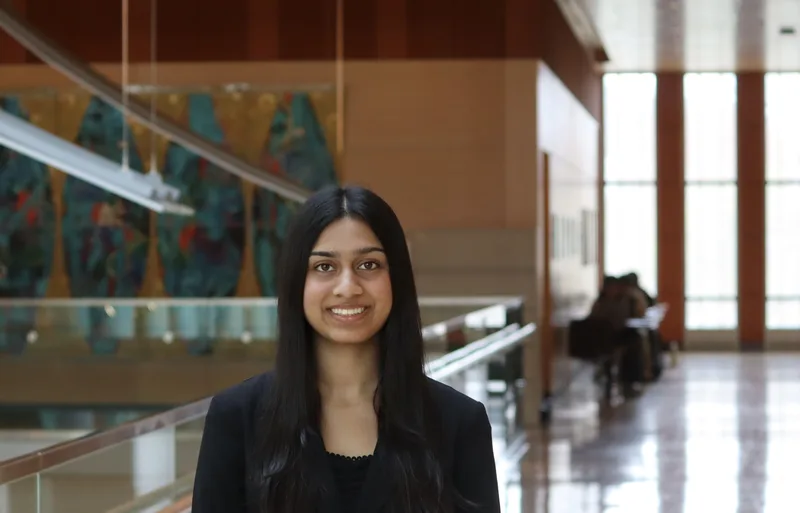
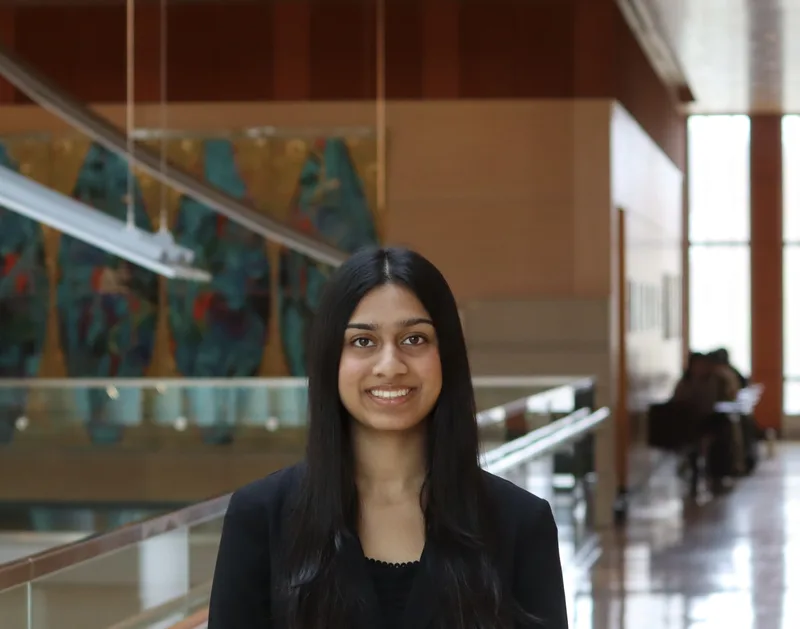
Re-crop eleven headshots to hand-picked framing
Replaces the calculated crops for eleven members with framing chosen
by hand in a local tool that pans and zooms a crop window over the
full-resolution original.

Sources came from two places. The six Theta photos used their original
6000px JPEGs, still untracked in static/media. The five older ones were
recovered from git at af17342^, before the resize pass reduced them to
800px, and staged in static/media/_sources.

Each crop is taken at the 280:220 ratio the member card renders, then
resized to 800px wide at quality 82. All eleven land at 800x629.

Michael Feneberg, Pranav Goyal and Ana Ryerson were left alone, having
looked correct already.

Also removes the focus fields added earlier. Every one held "50% 50%",
which is identical to the default, and the framing is now baked into
the files instead. The object-position support in createMemberCard and
showMemberModal stays, so the field can be reintroduced for any member
that needs panning later.

static/media/_sources is gitignored: recovered originals for
re-cropping, not site content.

Claude-Session: https://claude.ai/code/session_01HFF7eiNCE4Nis1LyBdvLFD

diff --git a/static/js/members.js b/static/js/members.js
@@ -278,8 +278,7 @@ const membersData = [
     year: "Senior",
     class: "epsilon",
     image: "/static/media/people/ManushriAnand.webp",
-    linkedin: "https://www.linkedin.com/in/manushrianand/",
-    focus: "50% 50%"
+    linkedin: "https://www.linkedin.com/in/manushrianand/"
   },
   {
     id: "drew-dame",
@@ -319,8 +318,7 @@ const membersData = [
     year: "Senior",
     class: "epsilon",
     image: "/static/media/people/MichaelFeneberg.webp",
-    linkedin: "https://www.linkedin.com/in/mfeneberg/",
-    focus: "50% 50%"
+    linkedin: "https://www.linkedin.com/in/mfeneberg/"
   },
   {
     id: "pranav-goyal",
@@ -330,8 +328,7 @@ const membersData = [
     year: "Senior",
     class: "epsilon",
     image: "/static/media/people/PranavGoyal.webp",
-    linkedin: "https://www.linkedin.com/in/pranav-goy4l/",
-    focus: "50% 50%"
+    linkedin: "https://www.linkedin.com/in/pranav-goy4l/"
   },
   // {
   //   id: "ellie-grehan",
@@ -382,8 +379,7 @@ const membersData = [
     year: "Senior",
     class: "epsilon",
     image: "/static/media/people/NathanLesny.webp",
-    linkedin: "https://www.linkedin.com/in/nathan-lesny/",
-    focus: "50% 50%"
+    linkedin: "https://www.linkedin.com/in/nathan-lesny/"
   },
   // {
   //   id: "menuel-rosso",
@@ -403,8 +399,7 @@ const membersData = [
     year: "Senior",
     class: "epsilon",
     image: "/static/media/people/AnaRyerson.webp",
-    linkedin: "https://www.linkedin.com/in/anaryerson/",
-    focus: "50% 50%"
+    linkedin: "https://www.linkedin.com/in/anaryerson/"
   },
   {
     id: "aditi-vishnubhatla",
@@ -455,8 +450,7 @@ const membersData = [
     year: "Junior",
     class: "zeta",
     image: "/static/media/people/SanjanaDatla.webp",
-    linkedin: "https://www.linkedin.com/in/sanjanadat/",
-    focus: "50% 50%"
+    linkedin: "https://www.linkedin.com/in/sanjanadat/"
   },
   {
     id: "vaelone-elankumaran",
@@ -466,8 +460,7 @@ const membersData = [
     year: "Senior",
     class: "zeta",
     image: "/static/media/people/VaeloneElankumaran.webp",
-    linkedin: "https://www.linkedin.com/in/vaelonee/",
-    focus: "50% 50%"
+    linkedin: "https://www.linkedin.com/in/vaelonee/"
   },
   {
     id: "aria-fifer",
@@ -477,8 +470,7 @@ const membersData = [
     year: "Senior",
     class: "zeta",
     image: "/static/media/people/AriaFifer.webp",
-    linkedin: "https://www.linkedin.com/in/aria-fifer-401629218/",
-    focus: "50% 50%"
+    linkedin: "https://www.linkedin.com/in/aria-fifer-401629218/"
   },
   {
     id: "nina-gernhardt",
@@ -784,8 +776,7 @@ const membersData = [
     year: "Sophomore",
     class: "theta",
     image: "/static/media/people/AvarySheldon.webp",
-    linkedin: "https://www.linkedin.com/in/avary-sheldon-2341503b0/",
-    focus: "50% 50%"
+    linkedin: "https://www.linkedin.com/in/avary-sheldon-2341503b0/"
   },
   {
     id: "brady-adams",
@@ -795,8 +786,7 @@ const membersData = [
     year: "Sophomore",
     class: "theta",
     image: "/static/media/people/BradyAdams.webp",
-    linkedin: "https://www.linkedin.com/in/brady-adams-umich/",
-    focus: "50% 50%"
+    linkedin: "https://www.linkedin.com/in/brady-adams-umich/"
   },
   {
     id: "brianna-everson",
@@ -846,8 +836,7 @@ const membersData = [
     year: "Junior",
     class: "theta",
     image: "/static/media/people/GarrettCheng.webp",
-    linkedin: "https://www.linkedin.com/in/garrett-cheng/",
-    focus: "50% 50%"
+    linkedin: "https://www.linkedin.com/in/garrett-cheng/"
   },
   {
     id: "gloria-chang",
@@ -897,8 +886,7 @@ const membersData = [
     year: "Junior",
     class: "theta",
     image: "/static/media/people/LuciaGrasso.webp",
-    linkedin: "https://www.linkedin.com/in/lucia-grasso/",
-    focus: "50% 50%"
+    linkedin: "https://www.linkedin.com/in/lucia-grasso/"
   },
   {
     id: "lynn-van",
@@ -928,8 +916,7 @@ const membersData = [
     year: "Sophomore",
     class: "theta",
     image: "/static/media/people/SahasraPotla.webp",
-    linkedin: "https://www.linkedin.com/in/sahasra-potla/",
-    focus: "50% 50%"
+    linkedin: "https://www.linkedin.com/in/sahasra-potla/"
   },
   {
     id: "sanika-vemali",
@@ -979,8 +966,7 @@ const membersData = [
     year: "Sophomore",
     class: "theta",
     image: "/static/media/people/ZaaraSeemeen.webp",
-    linkedin: "https://www.linkedin.com/in/zaara-seemeen17/",
-    focus: "50% 50%"
+    linkedin: "https://www.linkedin.com/in/zaara-seemeen17/"
   },
 
 ];
